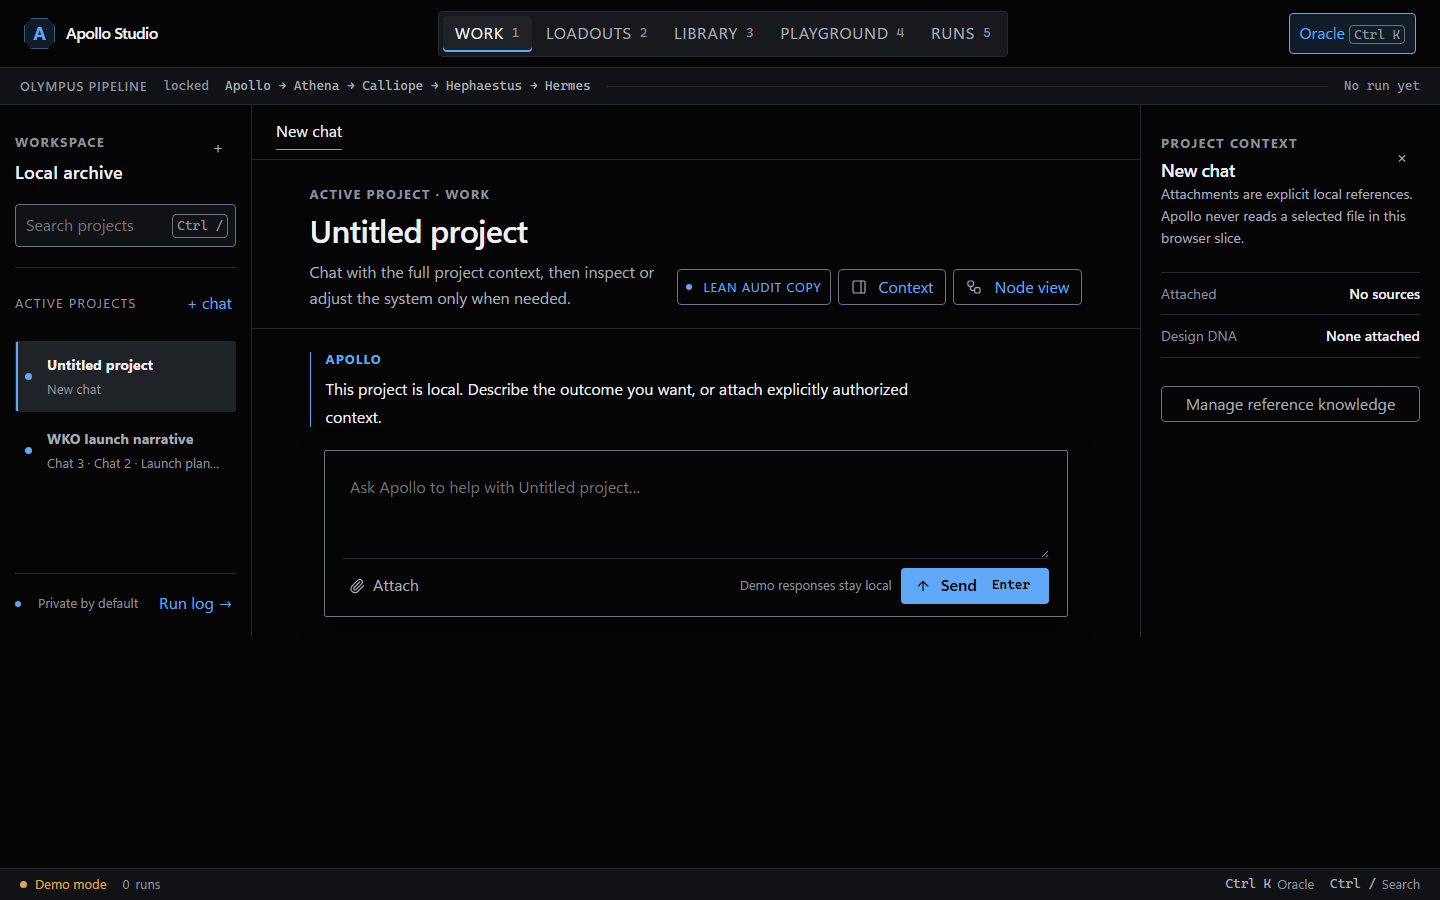
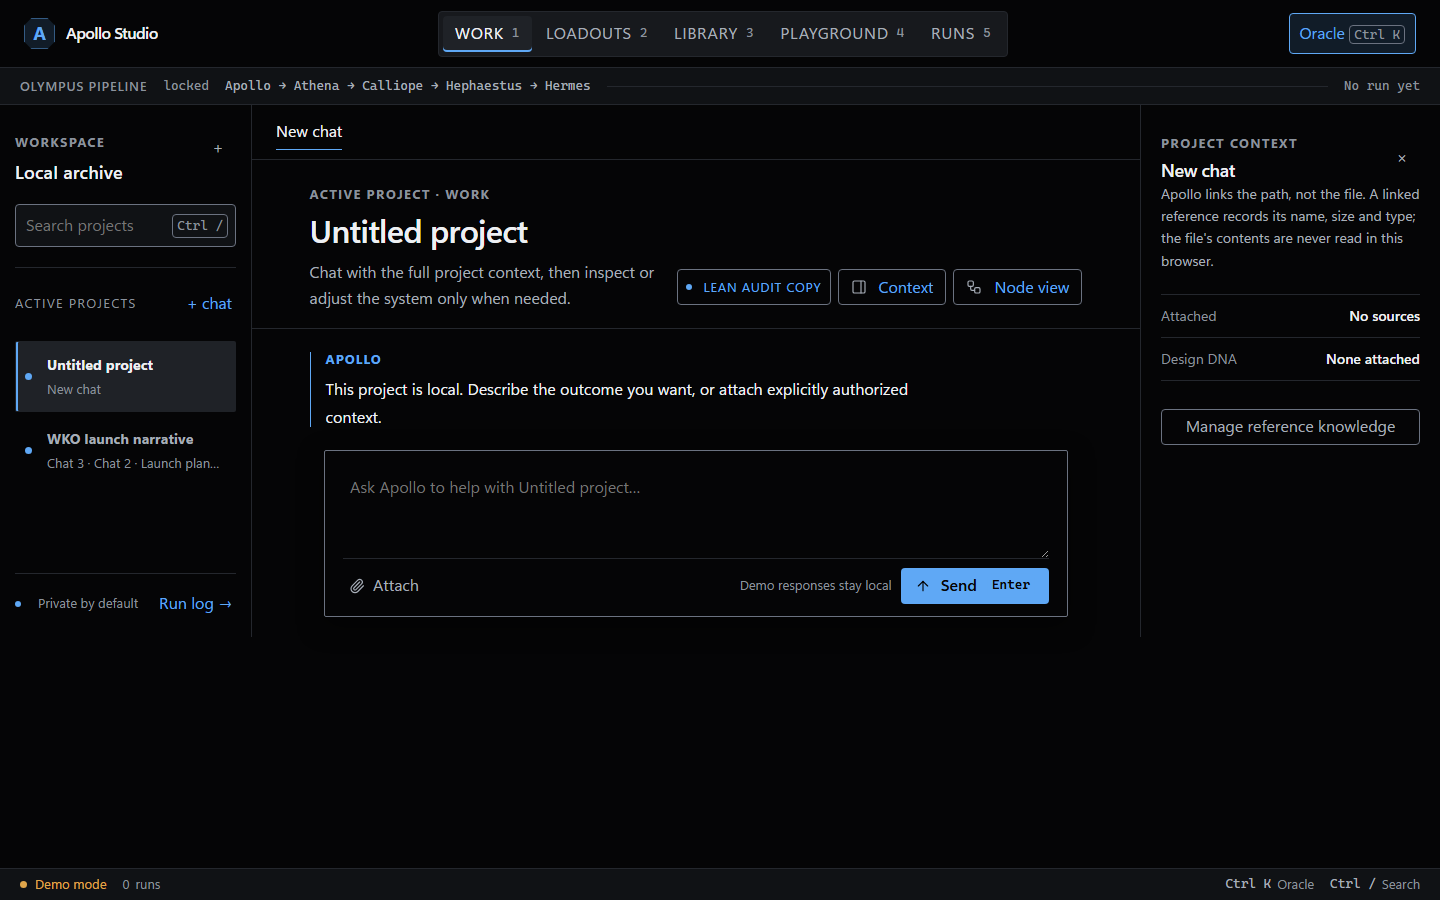
B6: the runtime says what is true, not what is hoped for (mirror)
demo / live-unverified / live, with a fenced boot probe against /v1/models.
Models come from APOLLO_MODELS with the shipped three as the default. B6 is
implemented and passing. Also: attachments claim a linked path rather than an
authorized link, and #agents-empty is reachable for the first time.

Changed region(s): [[0.8125, 0.1867, 1.0, 0.4044], [0.8125, 0.4356, 0.9688, 0.4978], [0.9062, 0.3111, 1.0, 0.4044]]

diff --git a/apollo-studio/public/app.js b/apollo-studio/public/app.js
@@ -170,7 +170,7 @@ function renderWork() {
   const tabs = $('#project-tabs'); tabs.replaceChildren(...project.chats.map(item => { const button = document.createElement('button'); button.type = 'button'; button.setAttribute('role', 'tab'); button.setAttribute('aria-selected', String(item.id === chat.id)); button.className = `project-tab${item.id === chat.id ? ' is-active' : ''}`; button.textContent = item.name; button.addEventListener('click', () => selectWorkChat(project.id, item.id)); return button; }));
   const detail = state.work.detail || { messages: [], attachments: [] }; const messages = $('#work-messages'); messages.replaceChildren(...detail.messages.map(message => { const article = document.createElement('article'); article.className = `work-message ${message.role}`; const label = document.createElement('span'); label.textContent = message.role === 'assistant' ? 'Apollo' : 'You'; const text = document.createElement('p'); text.textContent = message.text; article.append(label, text); return article; }));
   const linkedCount = detail.attachments.filter(item => item.status === 'linked').length;
-  $('#work-title').textContent = project.name; $('#work-prompt').placeholder = `Ask Apollo to help with ${project.name}…`; $('#context-title').textContent = chat.name; $('#context-attachments').textContent = linkedCount ? `${linkedCount} authorized link${linkedCount === 1 ? '' : 's'}` : 'No sources';
+  $('#work-title').textContent = project.name; $('#work-prompt').placeholder = `Ask Apollo to help with ${project.name}…`; $('#context-title').textContent = chat.name; $('#context-attachments').textContent = linkedCount ? `${linkedCount} linked path${linkedCount === 1 ? '' : 's'}` : 'No sources';
   const contextCount = $('#work-context-count');
   contextCount.textContent = linkedCount;
   contextCount.classList.toggle('is-zero', linkedCount === 0);
@@ -1215,6 +1215,7 @@ function renderVariants() {
     const webSearch = card.querySelector('.variant-web-search');
     webSearch.checked = variant.tools.has('web_search');
     webSearch.disabled = state.config.mode !== 'live';
+      webSearch.title = state.config.mode === 'live' ? '' : 'Available once the runtime is verified live.';
     webSearch.addEventListener('change', () => { if (webSearch.checked) variant.tools.add('web_search'); else variant.tools.delete('web_search'); });
 
     updateVariantSummary(card, variant);
@@ -1553,9 +1554,11 @@ function renderAgents() {
     const haystack = `${agent.name} ${agent.description} ${agent.activation} ${agent.skills.join(' ')} ${category}`.toLowerCase();
     return (categoryFilter === 'all' || category === categoryFilter) && haystack.includes(query);
   });
-  if (!filtered.length) { host.innerHTML = '<div class="empty-state"><strong>No agent profiles match.</strong><p>Change the category or search term.</p></div>'; return; }
+  // The view's real empty state is #agents-empty. This used to write an inline duplicate and
+  // return before ever unhiding it, so the state T9 checks for could not appear.
   const agentsEmpty = $('#agents-empty');
   if (agentsEmpty) agentsEmpty.hidden = filtered.length > 0;
+  if (!filtered.length) { host.replaceChildren(); return; }
   host.replaceChildren(...filtered.map(agent => {
     const article = document.createElement('article');
     const category = categoryById[agent.id] || 'Direction';
@@ -1849,11 +1852,28 @@ async function refreshEvents() {
   renderTransport();
 }
 
+// Three modes, and the badge says which one is true rather than which one is hoped for.
+// "Live API ready" used to appear whenever a key existed, with nothing checking that the key
+// worked or that the configured model ids resolve.
 function setRuntime(mode) {
-  const stateEl = $('.runtime-state'); stateEl.classList.remove('is-live', 'is-demo', 'is-error'); stateEl.classList.add(mode === 'live' ? 'is-live' : 'is-demo');
-  $('#runtime-label').textContent = mode === 'live' ? 'Live API ready' : 'Demo mode';
-  $('#playground-mode').textContent = mode === 'live' ? 'Live OpenAI Responses mode. Runs may incur API usage.' : 'Demo mode validates routing without sending data or consuming API tokens.';
-  $('#oracle-mode').textContent = mode === 'live' ? 'Live OpenAI API execution. Plan-only remains local.' : 'Demo execution. Plan-only is fully functional and consumes zero tokens.';
+  const detail = state.config?.modeDetail || '';
+  const stateEl = $('.runtime-state');
+  stateEl.classList.remove('is-live', 'is-demo', 'is-error');
+  stateEl.classList.add(mode === 'live' ? 'is-live' : mode === 'live-unverified' ? 'is-error' : 'is-demo');
+  const label = mode === 'live' ? 'Live API verified' : mode === 'live-unverified' ? 'Live, unverified' : 'Demo mode';
+  $('#runtime-label').textContent = label;
+  $('#runtime-label').title = detail;
+  const playground = mode === 'live'
+    ? 'Live OpenAI Responses mode. Runs may incur API usage.'
+    : mode === 'live-unverified'
+      ? 'A key is present but the configured models are not confirmed. ' + detail + ' A live run may fail.'
+      : 'Demo mode validates routing without sending data or consuming API tokens.';
+  $('#playground-mode').textContent = playground;
+  $('#oracle-mode').textContent = mode === 'live'
+    ? 'Live OpenAI API execution. Plan-only remains local.'
+    : mode === 'live-unverified'
+      ? 'A key is present but unverified. Plan-only is local and always works.'
+      : 'Demo execution. Plan-only is fully functional and consumes zero tokens.';
 }
 
 function bindRovingToolbar(toolbar) {

diff --git a/apollo-studio/public/index.html b/apollo-studio/public/index.html
@@ -61,7 +61,7 @@
             <div class="work-toolbar"><div><p class="eyebrow">Active project · Work</p><h1 id="work-title">Start with the work.</h1><p class="work-subtitle">Chat with the full project context, then inspect or adjust the system only when needed.</p></div><div class="work-toolbar-actions"><button class="system-pill" type="button" data-view-target="systems" title="Open Loadouts"><i></i> <span id="work-loadout-name">Olympus</span></button><button class="quiet-action command-action" id="work-context" type="button" aria-expanded="false" aria-controls="work-inspector"><i data-lucide="panel-right" aria-hidden="true"></i><span>Context</span><b id="work-context-count">0</b></button><button class="quiet-action command-action" data-view-target="architecture" type="button"><i data-lucide="workflow" aria-hidden="true"></i><span>Node view</span></button></div></div>
             <section class="conversation" aria-label="Project conversation"><div id="work-messages" class="work-messages" aria-live="polite"></div><div class="empty-state work-empty" data-empty-state id="work-empty" hidden><strong>Nothing asked yet.</strong><p>This chat is empty. Describe the outcome you want and Apollo routes it through the pipeline using the active loadout.</p><button class="primary-action" data-primary-action type="button" id="work-empty-action">Write the first message</button></div><p class="form-feedback work-error" id="work-error" role="alert" hidden></p><form id="work-composer" class="work-composer"><label class="sr-only" for="work-prompt">Message project</label><textarea id="work-prompt" rows="3" maxlength="12000" placeholder="Ask Apollo to help with this project…"></textarea><div class="composer-footer"><div class="composer-options"><button class="attachment-button command-action" type="button" title="Attach an authorized local reference"><i data-lucide="paperclip" aria-hidden="true"></i><span>Attach</span></button></div><div class="composer-submit"><span id="work-status" role="status">Demo responses stay local</span><button class="primary-action composer-send" type="submit"><i data-lucide="arrow-up" aria-hidden="true"></i><span>Send</span><kbd>Enter</kbd></button></div></div></form></section>
           </div>
-          <aside class="work-inspector" id="work-inspector" aria-label="Project context"><div class="inspector-heading"><div><p class="eyebrow">Project context</p><h2 id="context-title">Launch narrative</h2></div><button class="icon-action" id="close-context" type="button" aria-label="Close context">×</button></div><p id="context-copy">Attachments are explicit local references. Apollo never reads a selected file in this browser slice.</p><div class="context-list"><div><span>Attached</span><strong id="context-attachments">No sources</strong></div><div><span>Design DNA</span><strong id="context-dna">None attached</strong></div></div><div class="attachment-list" id="attachment-list"></div><button class="quiet-action work-inspector-action" data-view-target="knowledge" type="button">Manage reference knowledge</button></aside>
+          <aside class="work-inspector" id="work-inspector" aria-label="Project context"><div class="inspector-heading"><div><p class="eyebrow">Project context</p><h2 id="context-title">Launch narrative</h2></div><button class="icon-action" id="close-context" type="button" aria-label="Close context">×</button></div><p id="context-copy">Apollo links the path, not the file. A linked reference records its name, size and type; the file's contents are never read in this browser.</p><div class="context-list"><div><span>Attached</span><strong id="context-attachments">No sources</strong></div><div><span>Design DNA</span><strong id="context-dna">None attached</strong></div></div><div class="attachment-list" id="attachment-list"></div><button class="quiet-action work-inspector-action" data-view-target="knowledge" type="button">Manage reference knowledge</button></aside>
         </div>
       </section>
       <section class="view" id="architecture" aria-labelledby="architecture-title">
